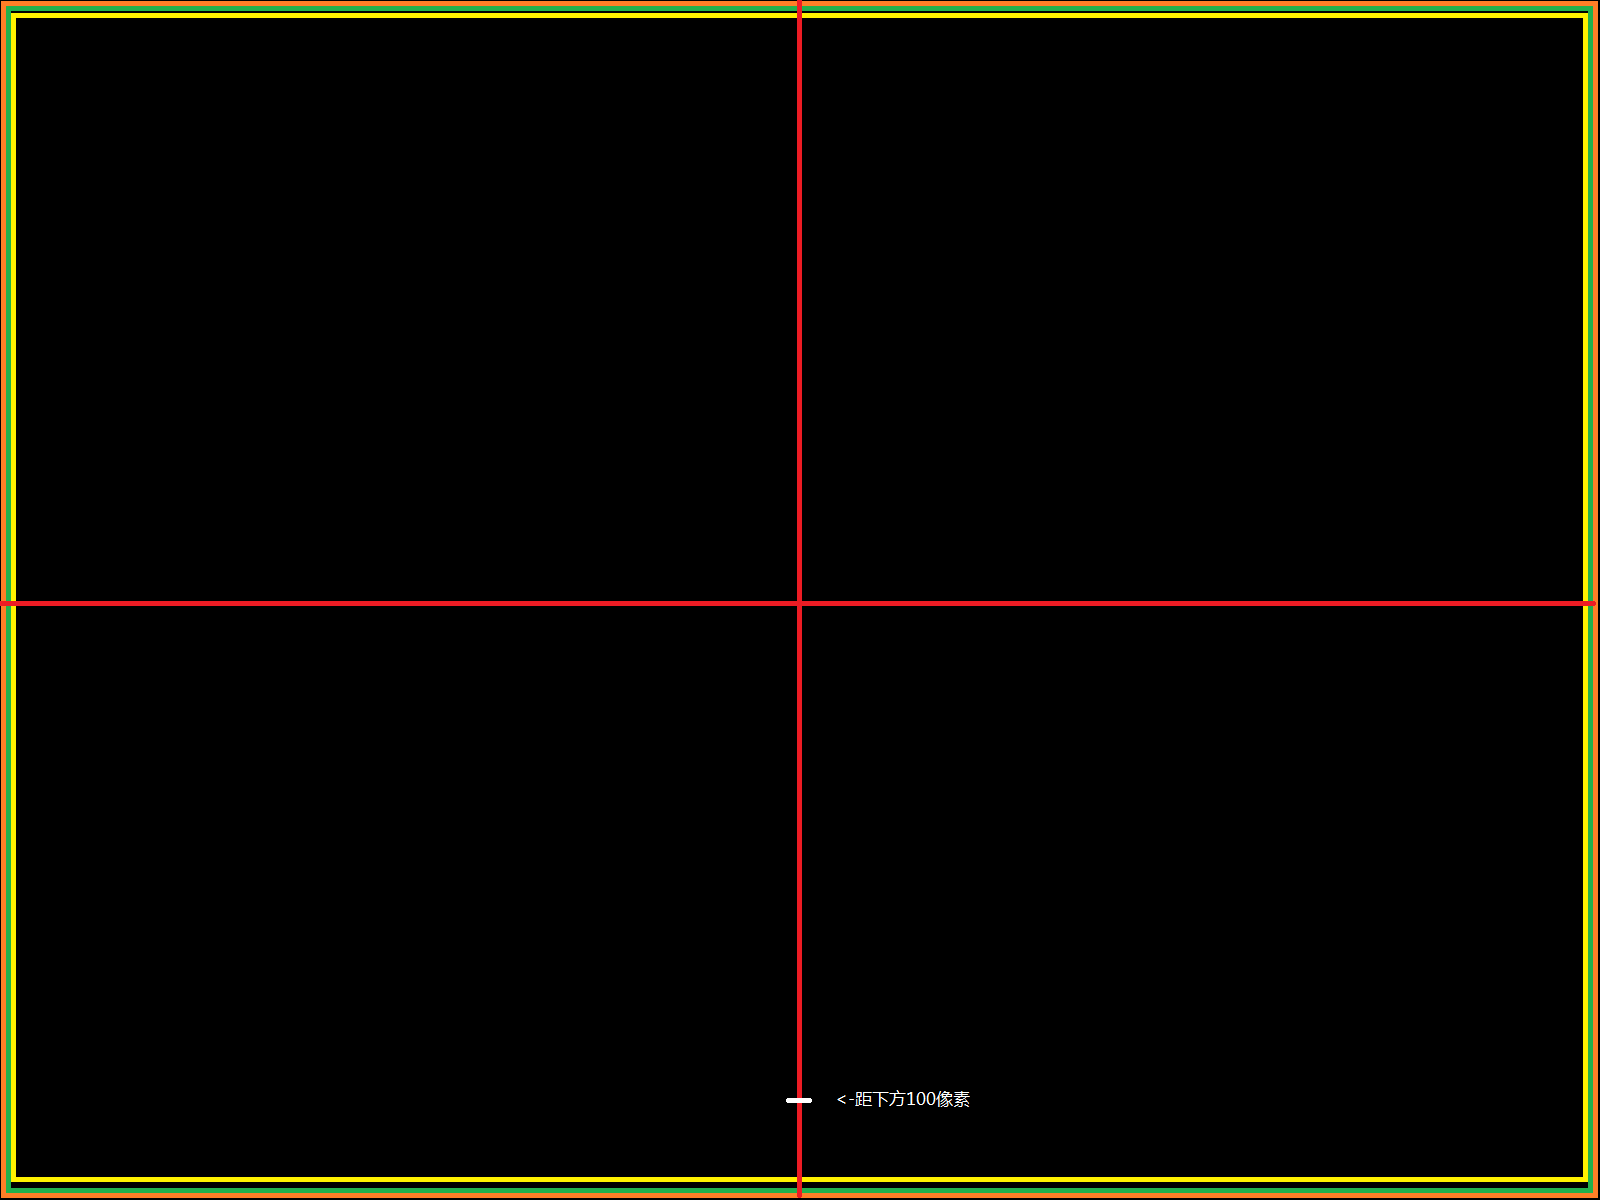
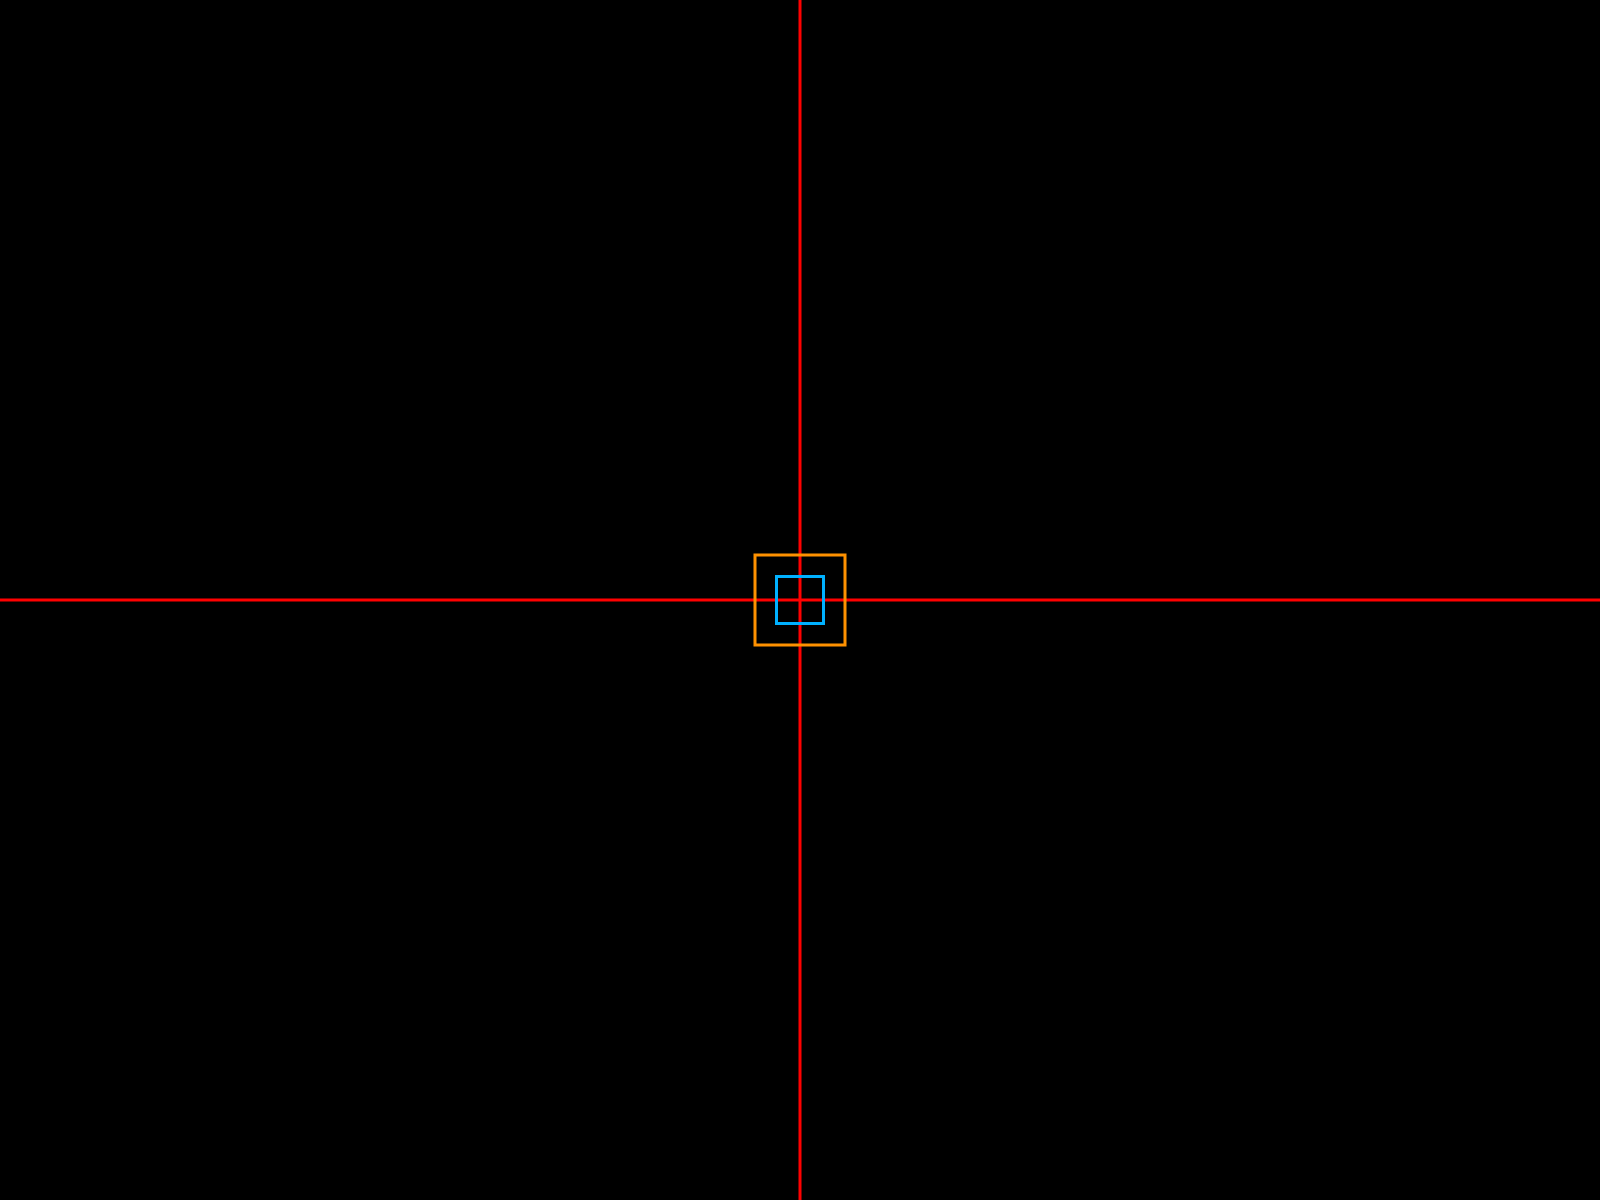
1.修改背景图片，现在的交叉中心就是真·图片中心了 2.修正了各个元素的体积问题
git-svn-id: https://viruscollector/svn/Spacecraft@172 6ae6004f-9e4d-49be-878d-5da08febfbad

Changed region(s): [[0.0, 0.0, 1.0, 1.0], [0.5312, 0.8942, 0.5938, 0.925]]

diff --git a/src/spacecraftelements/Bullets/EnhancedBullet.java b/src/spacecraftelements/Bullets/EnhancedBullet.java
@@ -8,11 +8,11 @@ public class EnhancedBullet extends Bullet{
 		super.vx = vx;
 		super.vy = vy;
 		super.damage = 15;
-		super.volume = 10;
+		super.volume = 20;
 		super.ImageID = "Images//bullet//basicbullet2.png";
-		super.ID = 0;
+		super.ID = 3;
 		super.angle = 0;
-		super.Imagesize = 20;
+		super.Imagesize = 10;
 	}
 
 	public boolean update() {

diff --git a/src/spacecraftelements/Bullets/BasicBullet.java b/src/spacecraftelements/Bullets/BasicBullet.java
@@ -9,11 +9,11 @@ public class BasicBullet extends Bullet{
 		super.vx=vx;
 		super.vy=vy;
 		super.damage=15;
-		super.volume = 10;
+		super.volume = 20;
 		super.ImageID="Images//bullet//basicbullet2.png";
 		super.ID = 0;
 		super.angle=0;
-		super.Imagesize=20;
+		super.Imagesize=10;
 		super.faction = f;
 	}
 

diff --git a/src/spacecraftelements/Bullets/BlueBullet.java b/src/spacecraftelements/Bullets/BlueBullet.java
@@ -11,9 +11,9 @@ public class BlueBullet extends Bullet{
 		super.damage=32;
 		super.volume = 10;
 		super.ImageID="Images//bullet//bluebullet.png";
-		super.ID = 0;
+		super.ID = 1;
 		super.angle=0;
-		super.Imagesize=20;
+		super.Imagesize=10;
 		super.faction = f;
 	}
 

diff --git a/src/spacecraftelements/Enemy/Enemy.java b/src/spacecraftelements/Enemy/Enemy.java
@@ -1,7 +1,6 @@
 package spacecraftelements.Enemy;
 
 import spacecraftelements.Updatable;
-import spacecraftelements.Items.SpaceItem;
 
 public abstract class Enemy implements Updatable{
 	/**
